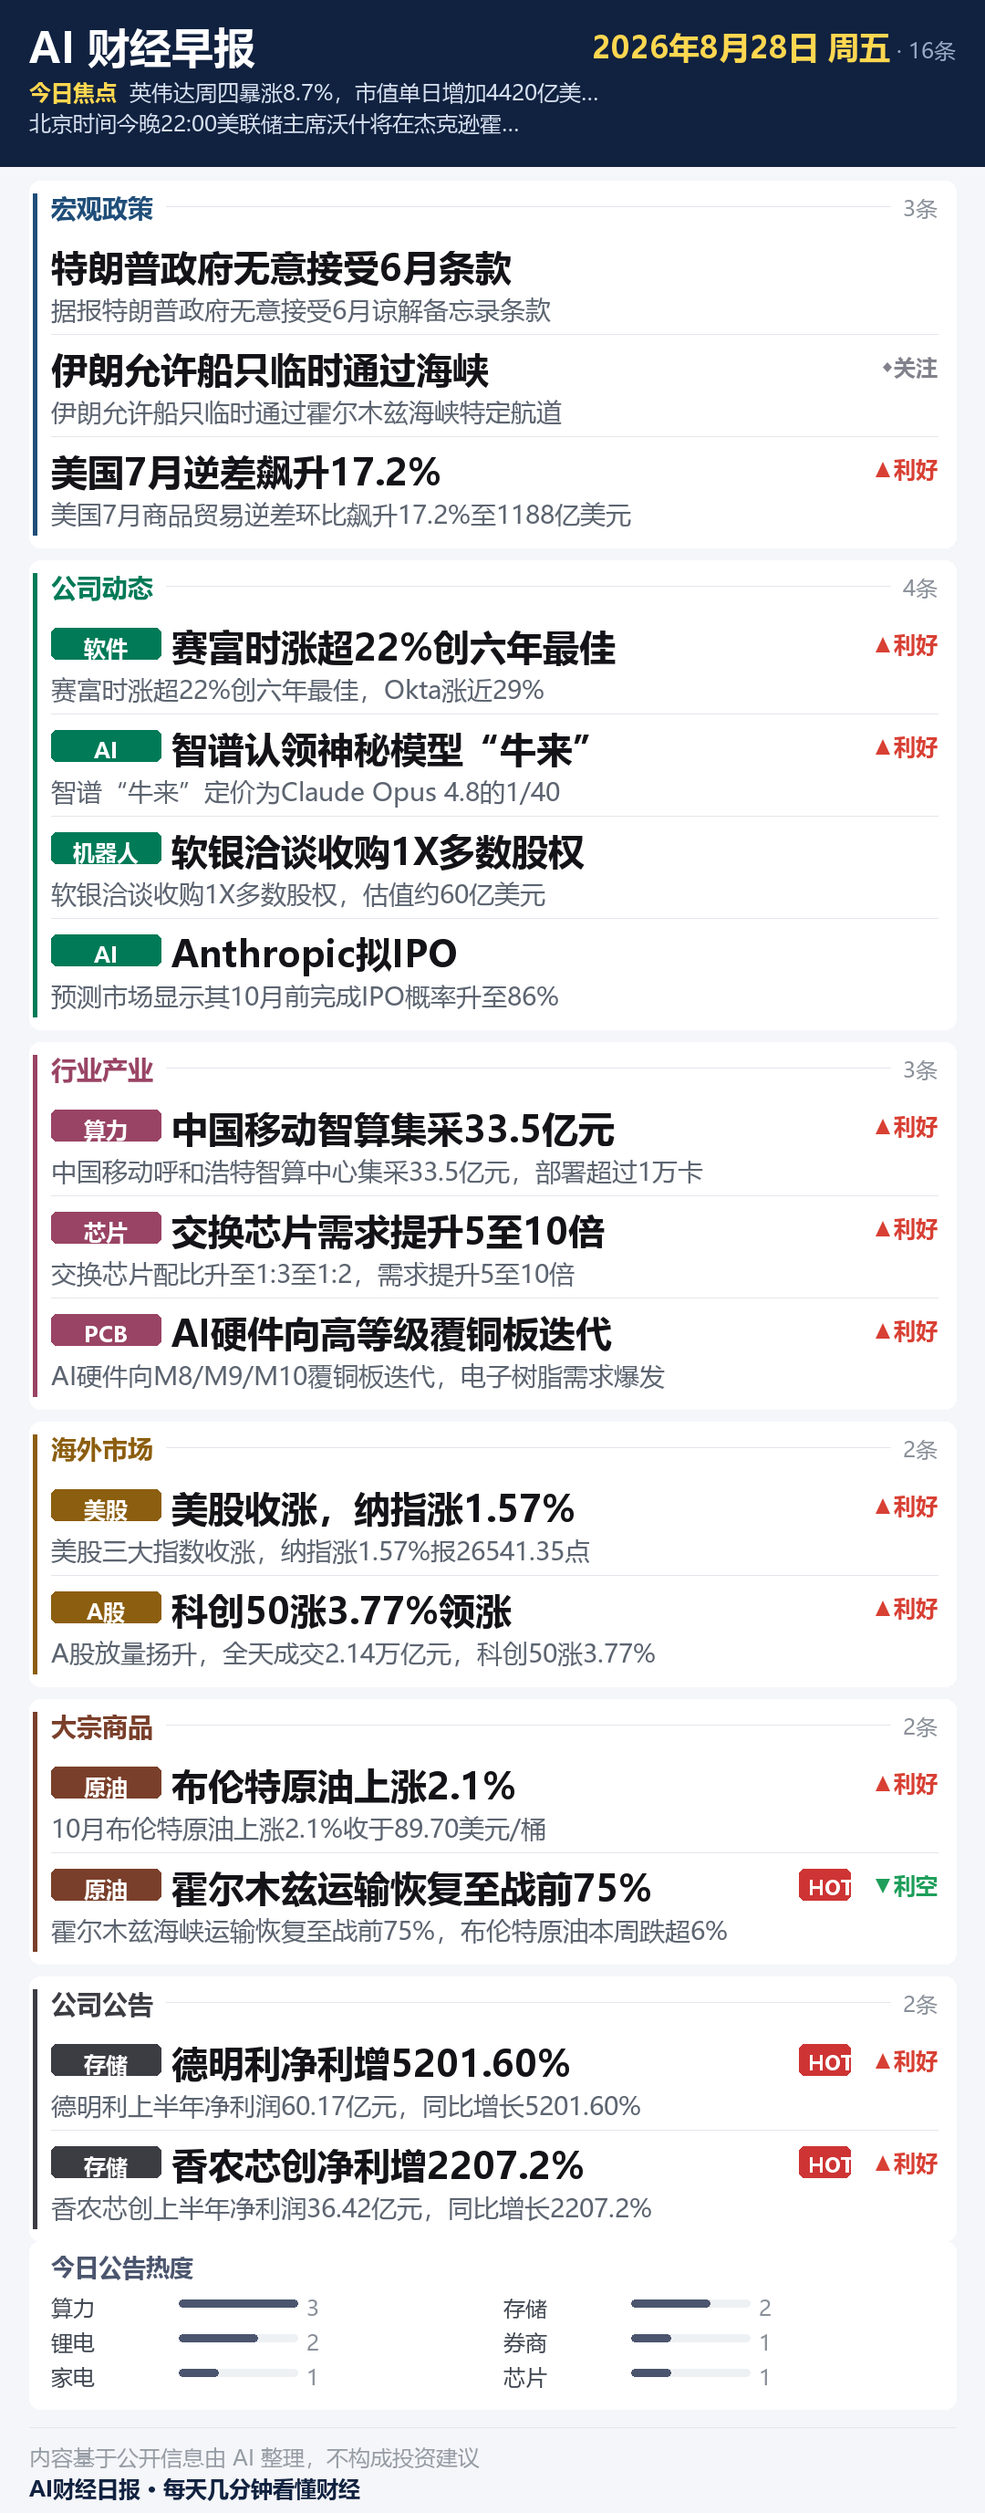
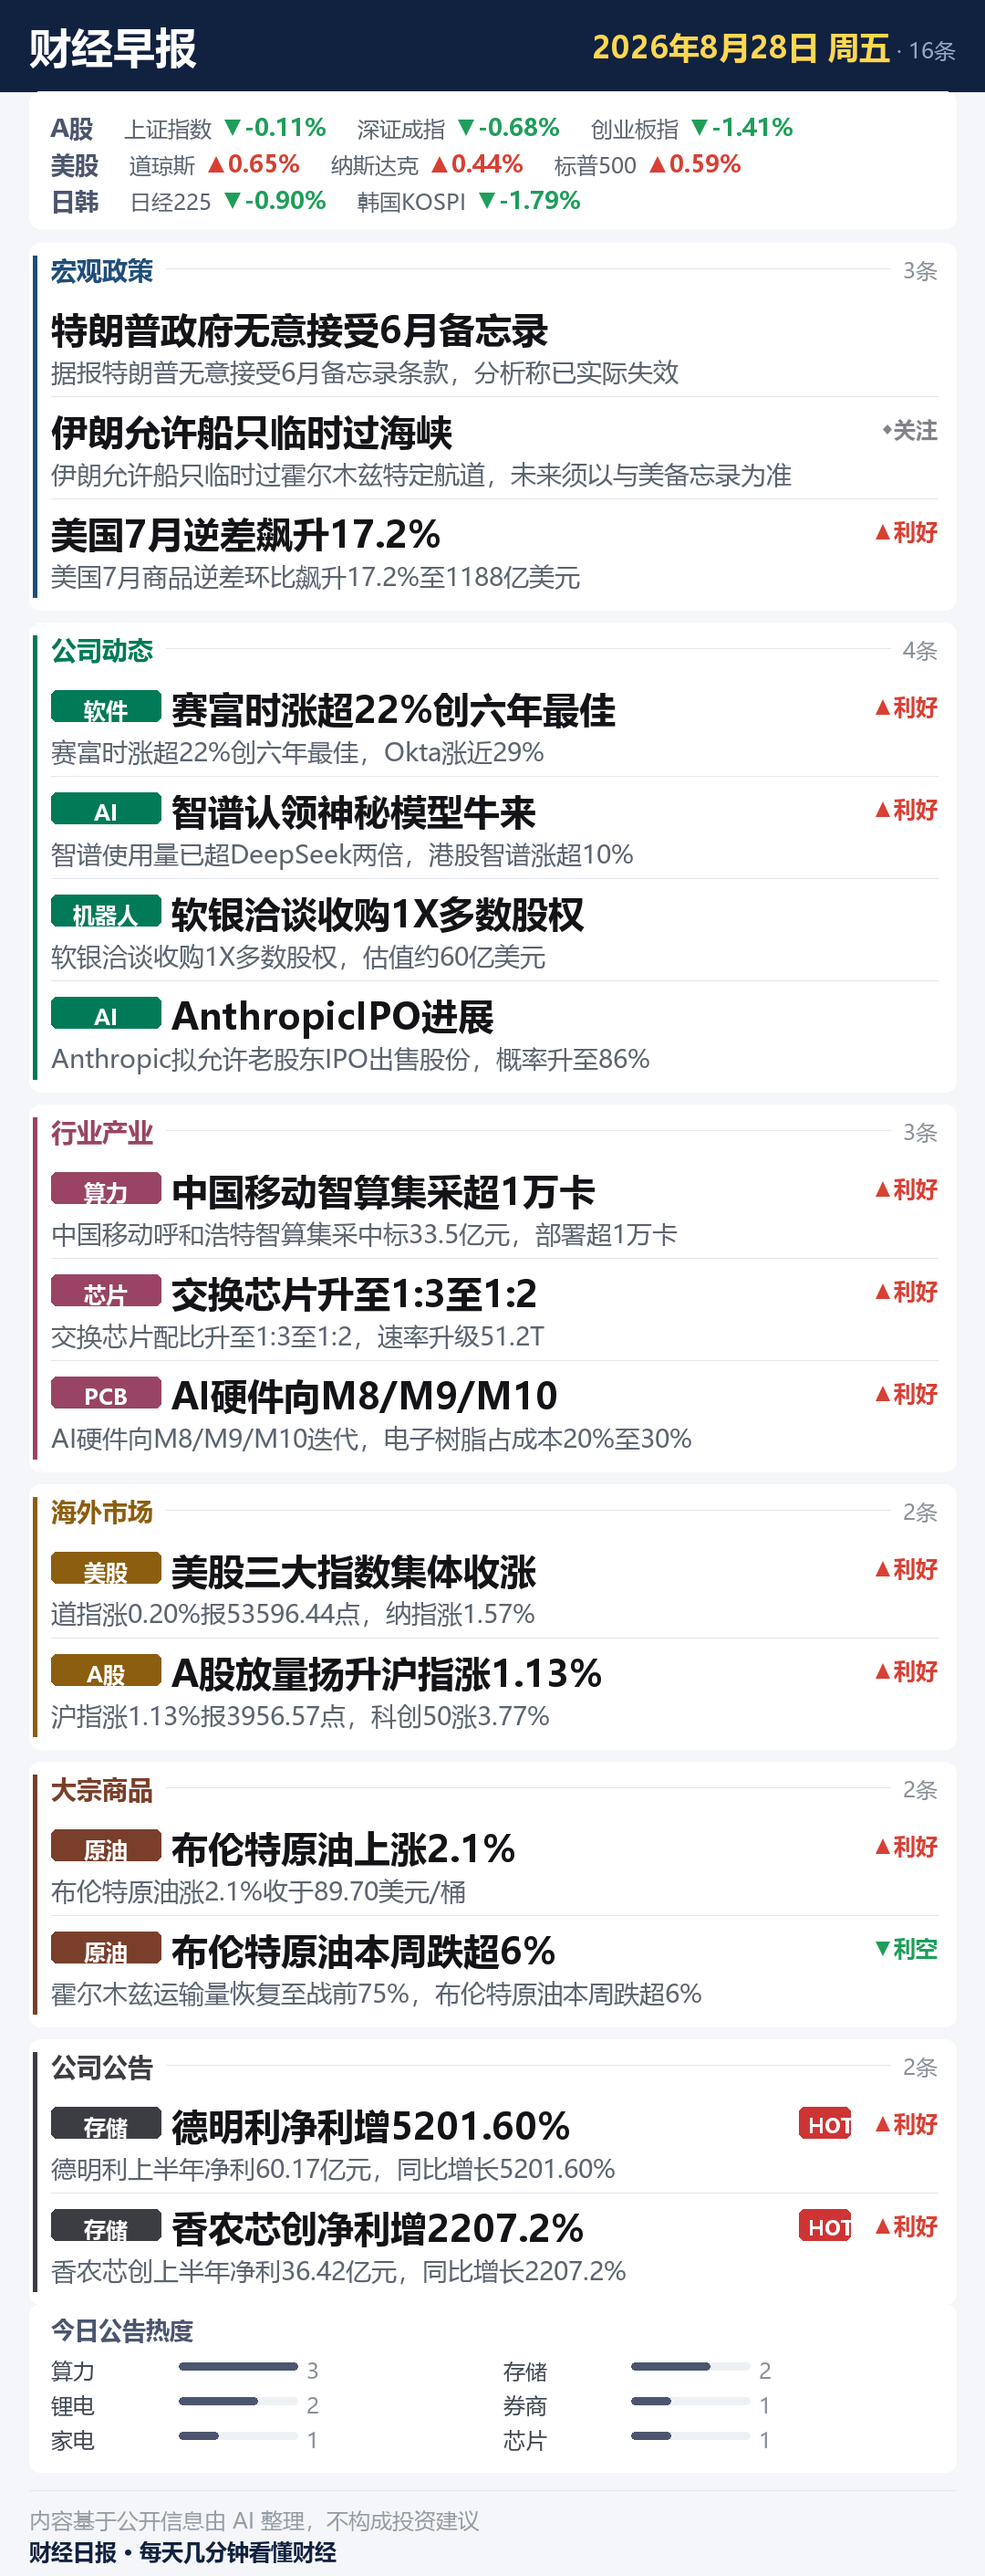
长图头部改版: 标题去AI字眼 + 今日焦点区换成行情速览
- 标题「AI 财经早报」→「财经早报」, 尾部落款同步去AI(morning-card.yaml 模板, 用户可改)
- 头部今日焦点(2行文字钩子)删除, 换成前一交易日收盘行情速览:
  A股(上证/深成/创业板) + 美股(道指/纳指/标普500) + 日韩(日经225/KOSPI) 三行分组, 红涨绿跌▲▼
- 数据源: 新浪免费指数接口(s_/int_/znb_KOSPI 三系列一次请求), KOSPI 用 znb_ 代码
- 失败静默降级(头部行情区跳过, 不断流程); 复跑历史日期会有+1天偏移(接口给当前前一收盘), 生产当日跑语义正确
- 实测: 2822px, 视觉+payload双验证通过

diff --git a/generator/image_digest.py b/generator/image_digest.py
@@ -71,19 +71,20 @@ def render_digest_image(payload: dict, date: str, out_path: str):
     cats = ("宏观政策", "公司动态", "行业产业", "海外市场", "大宗商品", "公司公告")
     sections = [(cat, [c for c in cards if c["cat"] == cat]) for cat in cats]
     sections = [(cat, cs) for cat, cs in sections if cs]
-    focus_h = len(focus) * 34
-    head_h = 20 + 56 + 8 + focus_h + 14 + 16
+    head_h = 20 + 56 + 24                             # 主标行+下留白(无焦点区)
+    idx = payload.get("indices") or []
+    idx_h = 16 + 40 * len(idx) + 14 if idx else 0      # 行情速览: 每组一行
     body = sum(SEC_HEAD + len(cs) * ITEM_H + 10 for _, cs in sections)
     gaps = SEC_GAP * max(0, len(sections) - 1)
     ann_rows = (min(len(ann), 8) + 1) // 2
     ann_h = SEC_HEAD + ann_rows * 38 + 14 if ann else 0
     foot_h = 100
-    H = head_h + 16 + body + gaps + (ann_h + 14 if ann else 0) + foot_h
+    H = head_h + idx_h + 16 + body + gaps + (ann_h + 14 if ann else 0) + foot_h
 
     img = Image.new("RGB", (W, H), BG)
     d = ImageDraw.Draw(img)
 
-    # ---- 头部: 主标+右侧突出日期(金色) / 今日焦点(标签内联) ----
+    # ---- 头部: 主标+右侧突出日期(金色) ----
     d.rectangle([0, 0, W, head_h], fill=HEAD)
     d.text((M, 20), tmpl["title"], font=_font(46, True), fill=(255, 255, 255))
     try:
@@ -98,16 +99,30 @@ def render_digest_image(payload: dict, date: str, out_path: str):
     d.text((dx, 28), date_str, font=d_font, fill=(255, 215, 80))
     d.text((dx + probe.textlength(date_str, font=d_font), 38), n_str,
            font=_font(24), fill=(150, 168, 196))
-    fy = 20 + 56 + 8
-    d.text((M, fy), "今日焦点", font=_font(24, True), fill=(255, 215, 80))
-    fx = M + probe.textlength("今日焦点", font=_font(24, True)) + 14
-    for i, f in enumerate(focus):
-        d.text((fx if i == 0 else M, fy + i * 34),
-               _truncate(probe, f, _font(24), W - M - (fx if i == 0 else M)),
-               font=_font(24), fill=(214, 224, 240))
+
+    # ---- 行情速览: 前一交易日收盘(A股/美股/日韩 红涨绿跌) ----
+    y = head_h
+    if idx:
+        d.rounded_rectangle([M, y, W - M, y + idx_h], radius=12, fill=(255, 255, 255))
+        iy = y + 16
+        for g in idx:
+            d.text((M + 24, iy + 6), g["group"], font=_font(26, True), fill=(75, 85, 110))
+            x = M + 24 + probe.textlength(g["group"], font=_font(26, True)) + 34
+            for it in g["items"]:
+                pct = it["pct"]
+                up = not pct.startswith("-")
+                mark, mc = ("▲", (216, 64, 52)) if up else ("▼", (30, 158, 90))
+                txt = f"{it['name']} {pct}%"
+                nf, pf = _font(24), _font(26, True)
+                d.text((x, iy + 8), it["name"], font=nf, fill=TXT_GREY)
+                x += probe.textlength(it["name"], font=nf) + 10
+                d.text((x, iy + 5), f"{mark}{pct}%", font=pf, fill=mc)
+                x += probe.textlength(f"{mark}{pct}%", font=pf) + 34
+            iy += 40
+        y += idx_h
 
     # ---- 分类节容器 + 等高条目 ----
-    y = head_h + 16
+    y += 16
     for cat, cs in sections:
         color = CAT_COLORS.get(cat, DEFAULT_COLOR)
         sh = SEC_HEAD + len(cs) * ITEM_H + 10

diff --git a/flows/steps/image.py b/flows/steps/image.py
@@ -10,6 +10,39 @@ from flows.steps import step
 # 分类配额(v1): 图条上限 image_top 在此配额内截断
 QUOTA = {"宏观政策": 3, "公司动态": 4, "行业产业": 3, "海外市场": 2, "大宗商品": 2, "公司公告": 2}
 
+# 头部行情速览: 前一交易日收盘指数(新浪免费接口, s_/int_/znb_ 三系列)
+INDEX_FEED = [
+    ("A股", [("上证指数", "s_sh000001"), ("深证成指", "s_sz399001"), ("创业板指", "s_sz399006")]),
+    ("美股", [("道琼斯", "int_dji"), ("纳斯达克", "int_nasdaq"), ("标普500", "int_sp500")]),
+    ("日韩", [("日经225", "int_nikkei"), ("韩国KOSPI", "znb_KOSPI")]),
+]
+
+
+def _fetch_indices() -> list:
+    """新浪指数行情 → [{group, name, pct}]; 失败返回 [](头部行情区静默跳过)。"""
+    import requests
+    codes = [c for _, items in INDEX_FEED for _, c in items]
+    try:
+        r = requests.get("https://hq.sinajs.cn/list=" + ",".join(codes),
+                         headers={"Referer": "https://finance.sina.com.cn"}, timeout=8)
+        r.encoding = "gbk"
+        vals = dict(re.findall(r'hq_str_(\w+)="([^"]*)"', r.text))
+        out = []
+        for group, items in INDEX_FEED:
+            row = []
+            for name, code in items:
+                parts = (vals.get(code) or "").split(",")
+                if len(parts) >= 4:                    # 名称,点位,涨跌额,涨跌幅
+                    row.append({"name": name, "pct": parts[3].strip()})
+            if row:
+                out.append({"group": group, "items": row})
+        if not out:
+            print("⚠ 指数行情接口无有效数据, 头部行情区跳过")
+        return out
+    except Exception as e:
+        print(f"⚠ 指数行情获取失败({e}), 头部行情区跳过")
+        return []
+
 
 @step("render_morning_image")
 def render_morning_image(ctx, wf, params):
@@ -97,8 +130,8 @@ def render_morning_image(ctx, wf, params):
     focus = _focus_lines(article)
 
     ann_summary = sorted(ann_count.items(), key=lambda x: -x[1])[:8]
-    payload = {"date": date, "degraded": degraded, "focus": focus,
-               "cards": cards, "ann_summary": ann_summary}
+    payload = {"date": date, "degraded": degraded, "indices": _fetch_indices(),
+               "focus": focus, "cards": cards, "ann_summary": ann_summary}
 
     # ---- 机检: 字数/数字保真/禁词 ----
     report = _lint_lines(payload, {it["n"]: it["text"] for it in sel})
